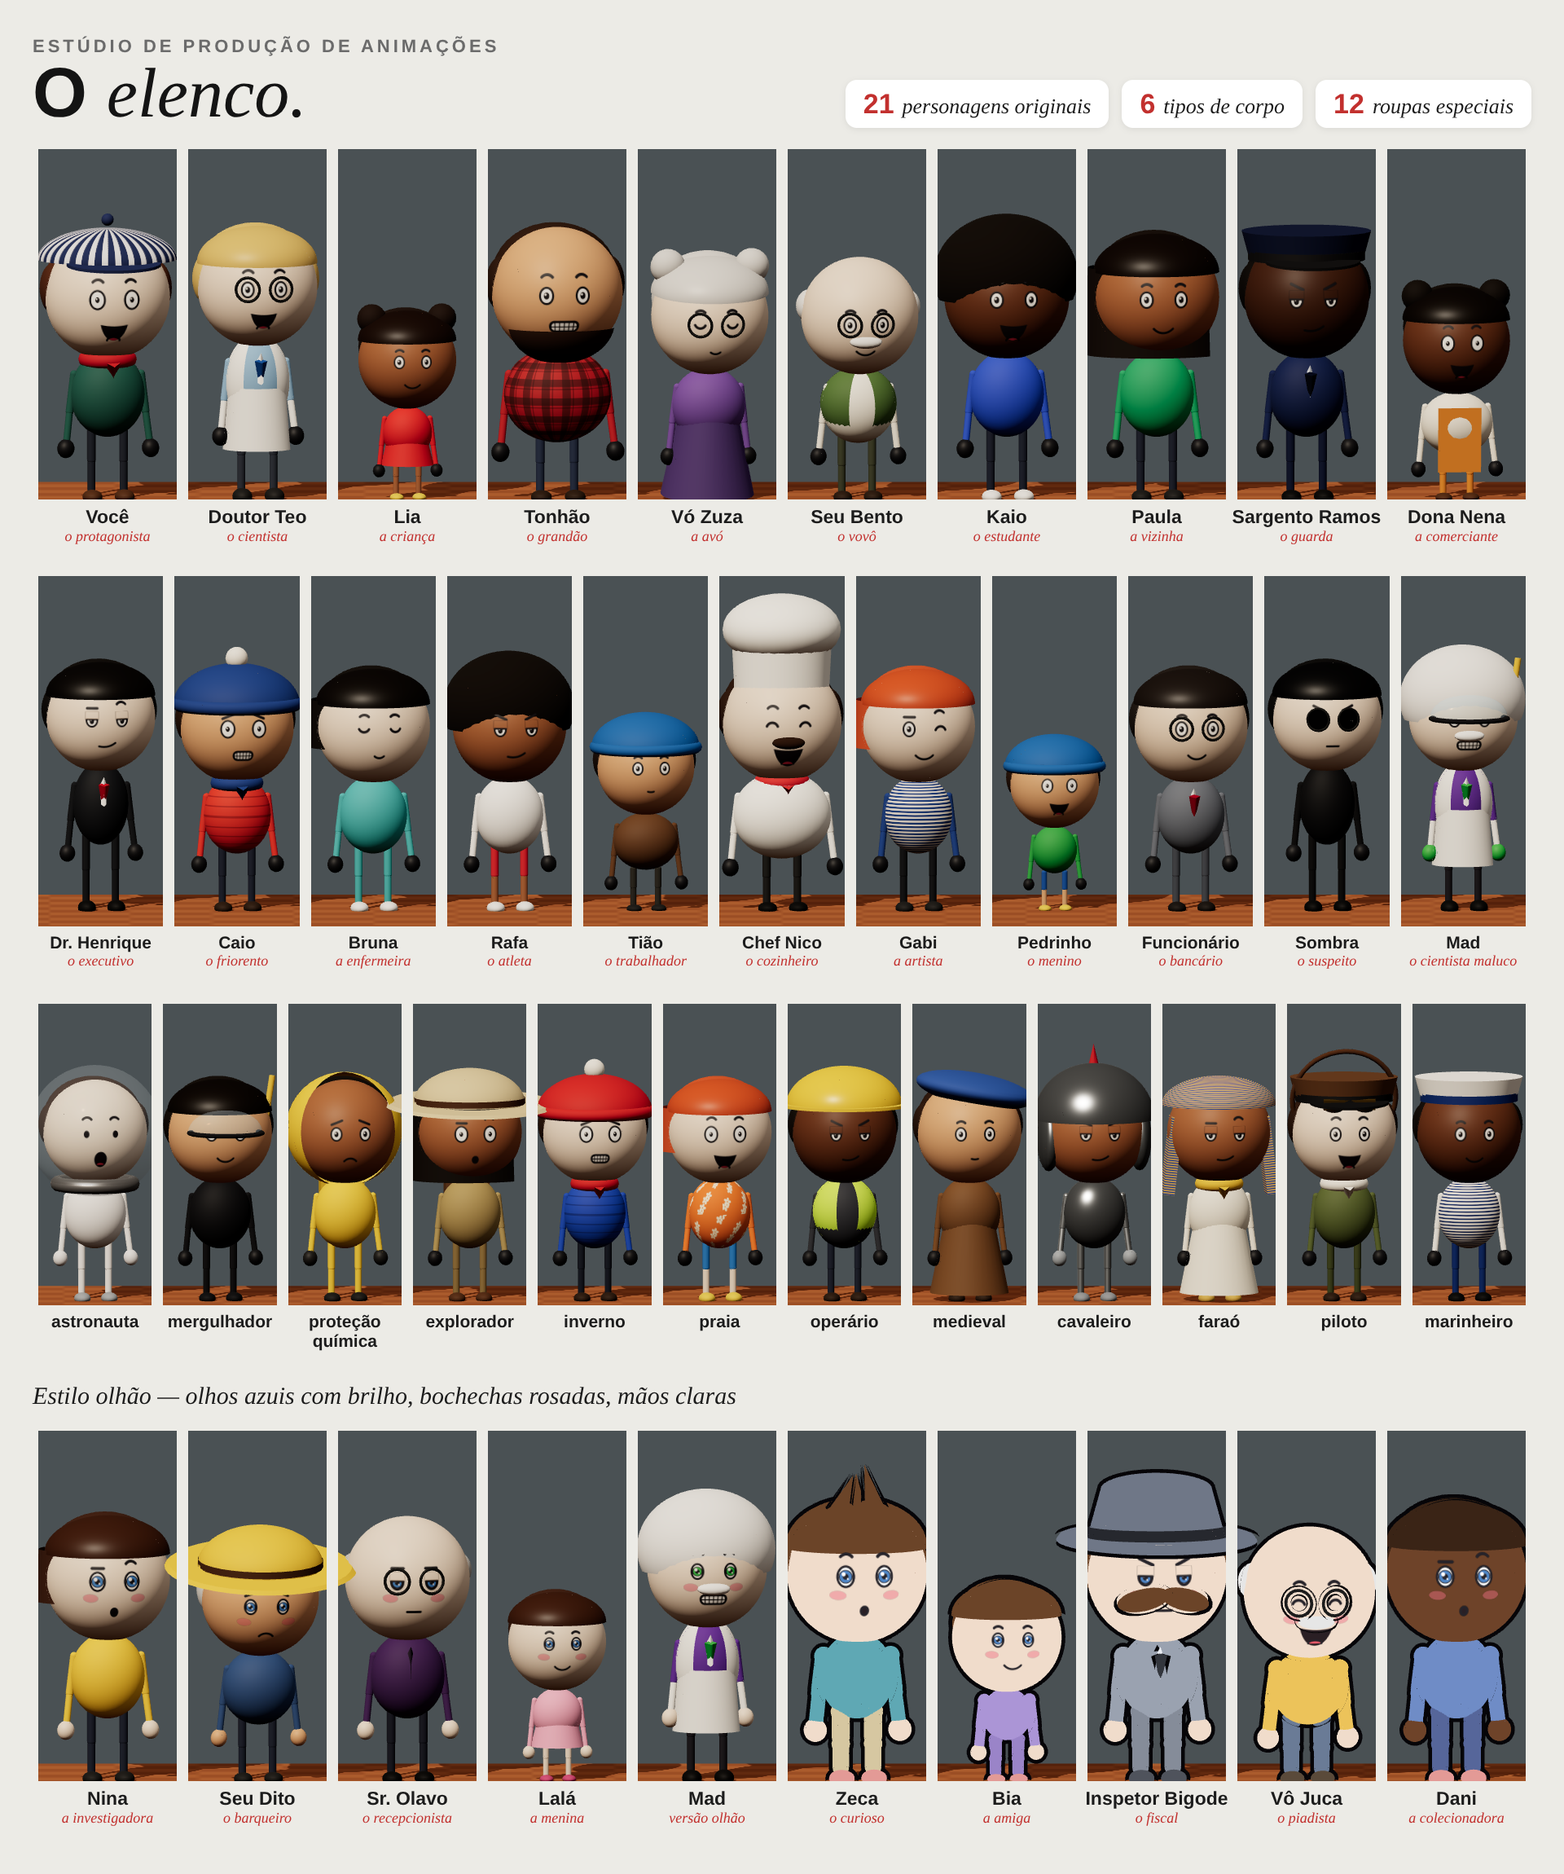
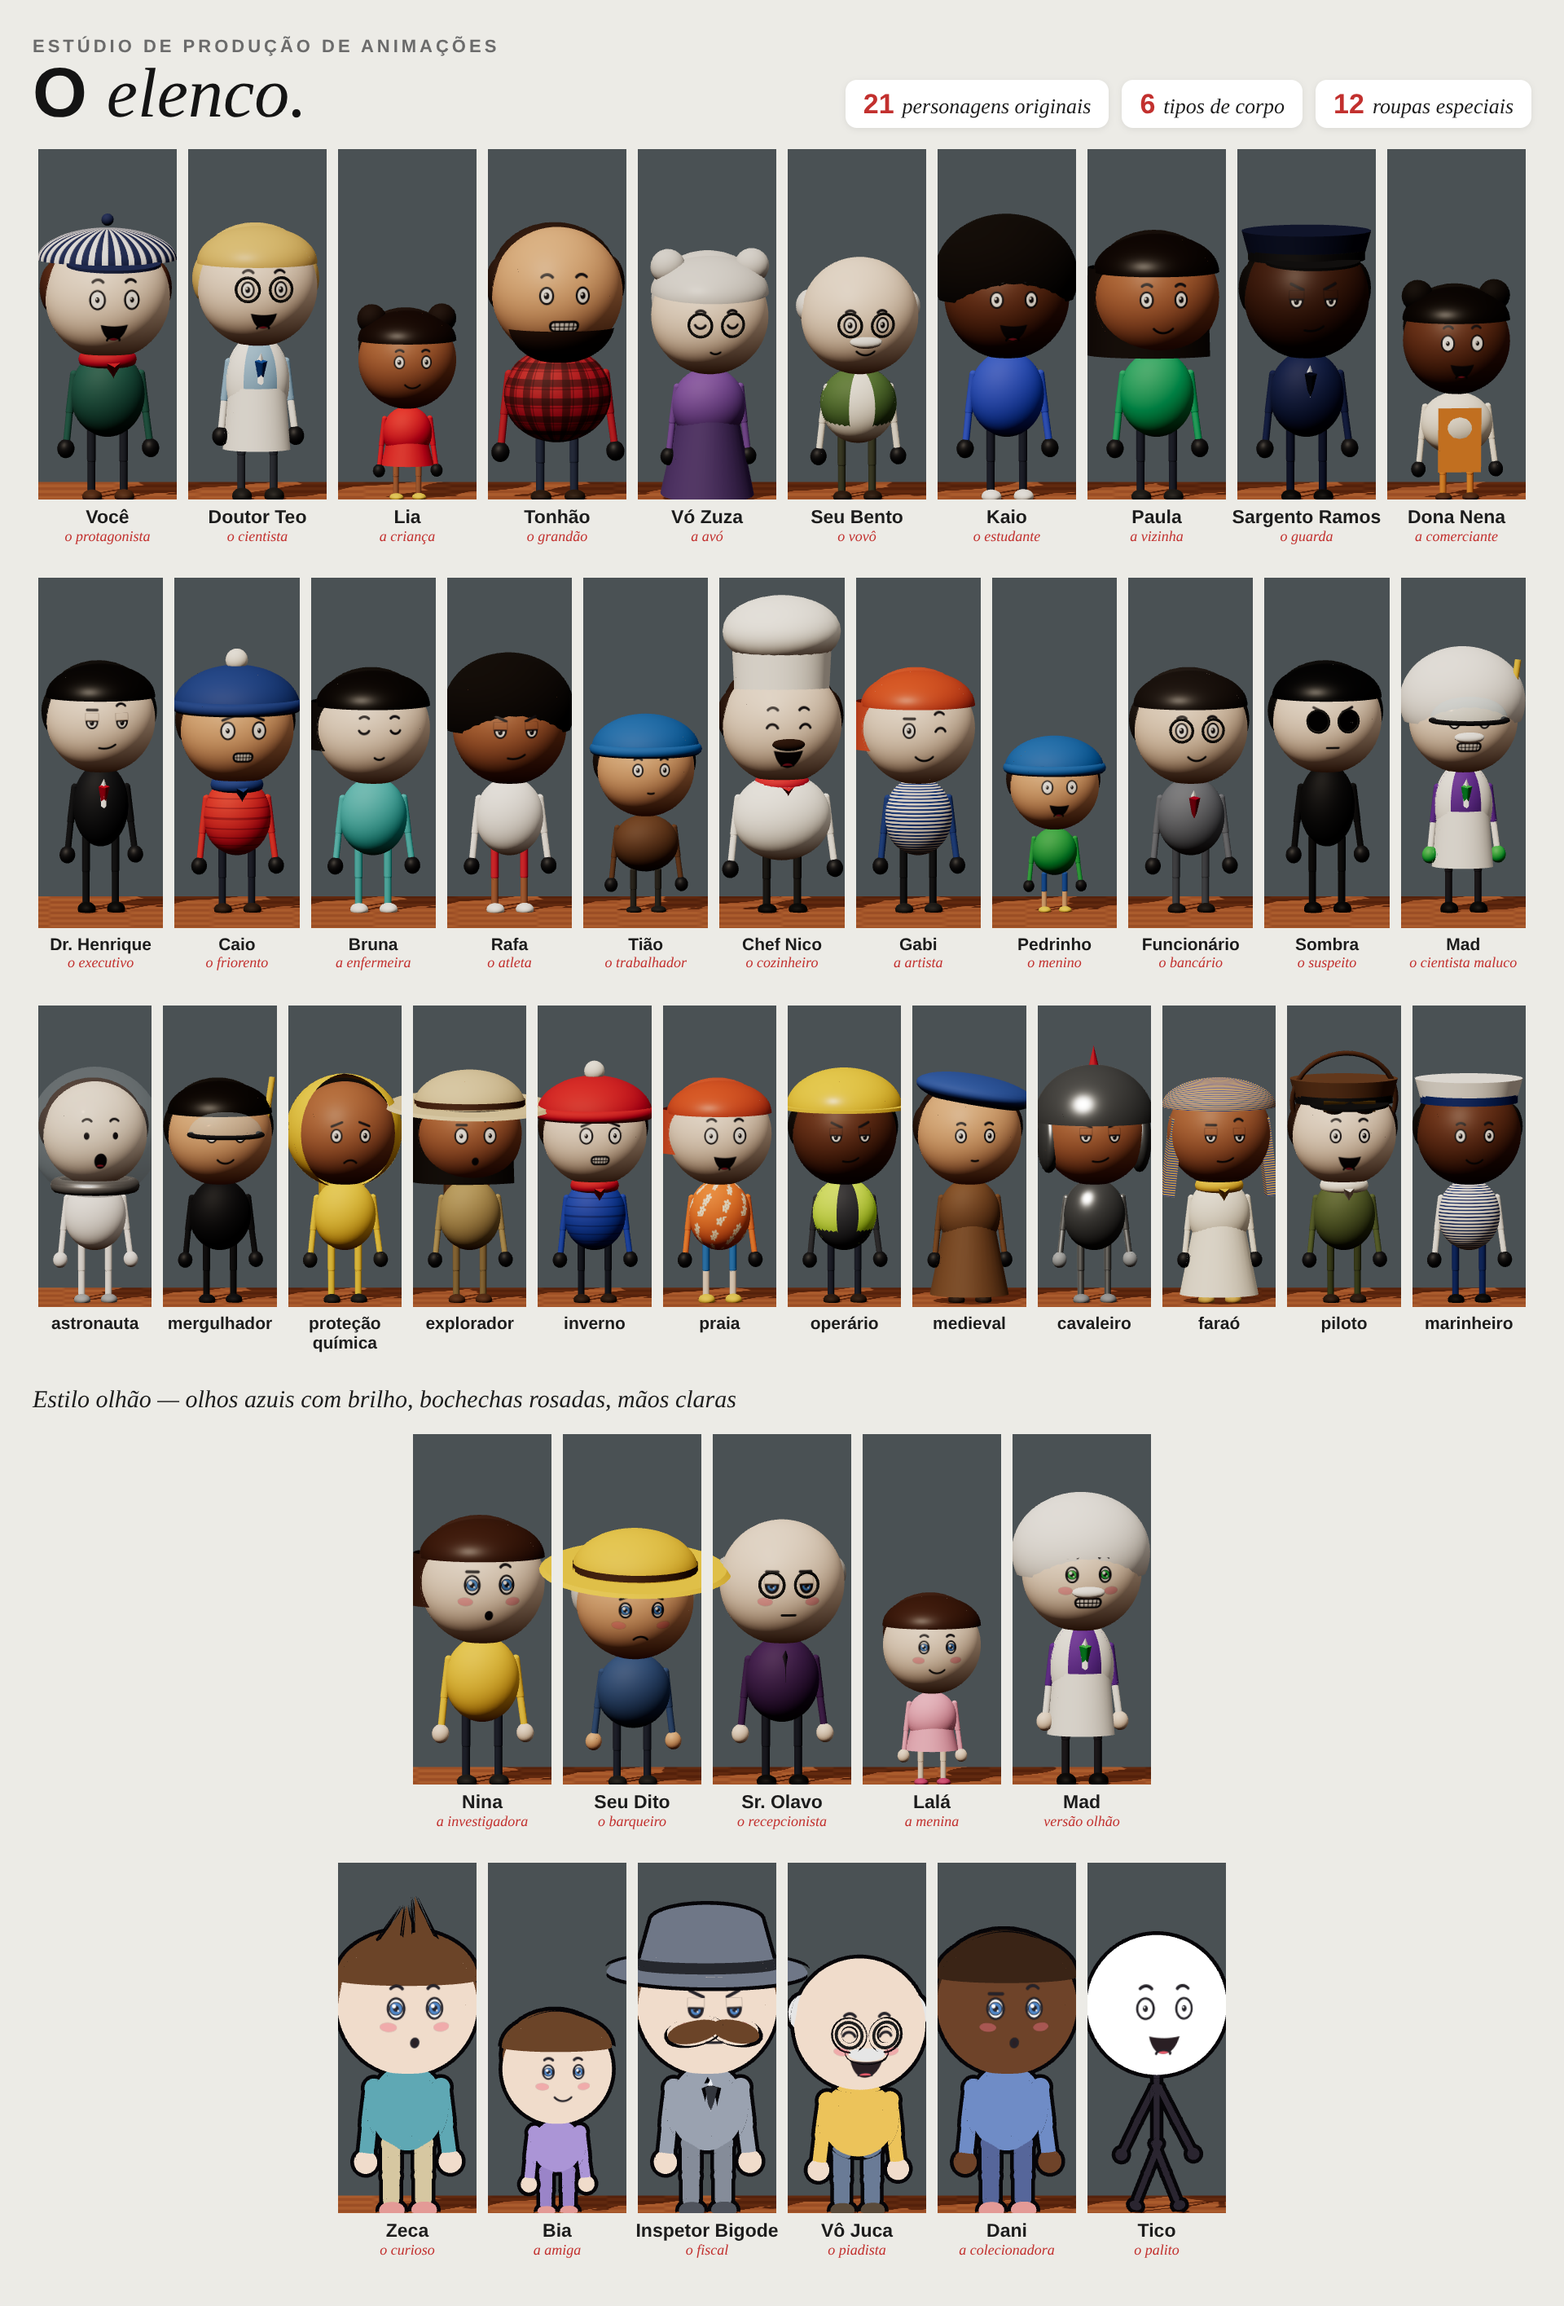
Adiciona personagem palito (Tico) e opção Look.palito
Claude-Session: https://claude.ai/code/session_01P7vGK5ehzYiDP7fUjAiZPz

diff --git a/estudio-animacoes-3d/src/Character.tsx b/estudio-animacoes-3d/src/Character.tsx
@@ -83,6 +83,7 @@ export type Look = {
   backpack?: string; // mochila / tanque
   iris?: string; // cor da íris (olhos grandes com brilho); sem isso, olho preto padrão
   cheeks?: boolean; // bochechas rosadas sempre
+  palito?: boolean; // personagem palito: corpo, braços e pernas de traço fino (use com traco)
   traco?: boolean; // visual 2D: cor chapada sem sombra, contorno grosso, membros de boneco articulado
 };
 
@@ -110,6 +111,9 @@ const HEAD_Y = 1.62;
 // ---------- Traço desenhado (Look.traco) ----------
 // Visual 2D: cor chapada pura (sem luz/sombra) + contorno escuro grosso.
 const TracoCtx = createContext(false);
+// Personagem palito: corpo, braços e pernas viram traços finos.
+const PalitoCtx = createContext(false);
+const PALITO_R = 0.024;
 const INK = '#2a2530';
 let inkMat: THREE.ShaderMaterial | null = null;
 // Contorno por "casca invertida": empurra a malha pela normal em espaço de câmera (espessura igual em tudo).
@@ -193,15 +197,16 @@ const FaceDecal = ({ face, skin, iris, cheeks }: { face: FaceState; skin: string
 // No estilo traço os membros ficam grossos, como tubos, com juntas redondas (boneco articulado).
 const GROSSO = 2.1;
 const Limb = ({ len, r, color, metal }: { len: number; r: number; color: string; metal?: boolean }) => {
-  const traco = useContext(TracoCtx);
-  const rr = traco ? r * GROSSO : r;
+  const palito = useContext(PalitoCtx);
+  const traco = useContext(TracoCtx) && !palito;
+  const rr = palito ? PALITO_R : traco ? r * GROSSO : r;
   return (
     <>
       <mesh position={[0, -len / 2, 0]} castShadow>
         <capsuleGeometry args={[rr, traco ? len - rr : len, 4, 12]} />
         <Mat color={color} metal={metal} />
       </mesh>
-      {traco && (
+      {(traco || palito) && (
         <mesh castShadow>
           <sphereGeometry args={[rr * 1.12, 16, 12]} />
           <Mat color={color} metal={metal} />
@@ -217,7 +222,7 @@ const Arm = ({ side, sz, sx, el, look, sh, hand }: { side: 1 | -1; sz: number; s
     <group position={[0, -0.3, 0]} rotation={[-el, 0, 0]}>
       <Limb len={0.27} r={0.028} color={look.coat ?? look.jacket} metal={look.metal} />
       <group position={[0, -0.3, 0]}>
-        <mesh castShadow scale={look.traco ? [1.35, 1.35, 1.2] : [1, 1.1, 0.9]}>
+        <mesh castShadow scale={look.palito ? [0.7, 0.7, 0.7] : look.traco ? [1.35, 1.35, 1.2] : [1, 1.1, 0.9]}>
           <sphereGeometry args={[0.07, 16, 12]} />
           <Mat color={look.gloves} roughness={0.5} />
         </mesh>
@@ -230,11 +235,11 @@ const Arm = ({ side, sz, sx, el, look, sh, hand }: { side: 1 | -1; sz: number; s
 const Leg = ({ side, swing, tap, look }: { side: 1 | -1; swing: number; tap: number; look: Look }) => {
   const knee = Math.max(0, -swing) * 0.9 + tap * 0.5;
   return (
-    <group position={[side * 0.13, 0.55, 0]} rotation={[-swing - tap * 0.3, 0, 0]}>
+    <group position={[side * (look.palito ? 0.02 : 0.13), 0.55, 0]} rotation={[-swing - tap * 0.3, 0, look.palito ? -side * 0.38 : 0]}>
       <Limb len={0.24} r={0.035} color={look.pants} metal={look.metal} />
       <group position={[0, -0.26, 0]} rotation={[knee, 0, 0]}>
         <Limb len={0.22} r={0.032} color={look.shorts ? look.skin : look.pants} metal={look.metal} />
-        <mesh position={[0, -0.27, 0.07]} scale={look.traco ? [1.3, 0.85, 1.7] : [1, 0.7, 1.6]} castShadow>
+        <mesh position={[0, -0.27, 0.05]} scale={look.palito ? [0.6, 0.45, 1.3] : look.traco ? [1.3, 0.85, 1.7] : [1, 0.7, 1.6]} castShadow>
           <sphereGeometry args={[0.08, 16, 12]} />
           <Mat color={look.shoes} roughness={0.6} />
         </mesh>
@@ -645,11 +650,19 @@ export const Character = ({
       </group>
       <group position={[0, 0.55 + dy, 0]} scale={[2 - sq, sq, 2 - sq]}>
         <group rotation={[p.lean + b.lean, p.twist, p.side]} position={[0, -0.55, 0]}>
-          {/* Tronco arredondado */}
-          <mesh position={[0, 0.84, 0]} scale={b.torso} castShadow>
-            <sphereGeometry args={[0.3, 32, 24]} />
-            <Mat color={torsoMap ? '#ffffff' : look.jacket} map={torsoMap} metal={look.metal} />
-          </mesh>
+          {look.palito ? (
+            /* Palito: um traço do quadril até o pescoço */
+            <mesh position={[0, 0.86, 0]} castShadow>
+              <capsuleGeometry args={[PALITO_R, 0.62, 4, 12]} />
+              <Mat color={look.jacket} />
+            </mesh>
+          ) : (
+            /* Tronco arredondado */
+            <mesh position={[0, 0.84, 0]} scale={b.torso} castShadow>
+              <sphereGeometry args={[0.3, 32, 24]} />
+              <Mat color={torsoMap ? '#ffffff' : look.jacket} map={torsoMap} metal={look.metal} />
+            </mesh>
+          )}
           {look.backpack && (
             <mesh position={[0, 0.88, -0.3 * b.torso[2]]} castShadow>
               <boxGeometry args={[0.42, 0.5, 0.2]} />
@@ -707,8 +720,8 @@ export const Character = ({
                 <Mat color="#efeee8" roughness={0.9} />
               </mesh>
             ))}
-          <Arm side={1} sz={p.lsz} sx={p.lsx} el={p.lel} look={look} sh={b.sh} hand={left} />
-          <Arm side={-1} sz={p.rsz} sx={p.rsx} el={p.rel} look={look} sh={b.sh} hand={right} />
+          <Arm side={1} sz={p.lsz + (look.palito ? 0.35 : 0)} sx={p.lsx} el={p.lel} look={look} sh={look.palito ? 0.02 : b.sh} hand={left} />
+          <Arm side={-1} sz={p.rsz + (look.palito ? 0.35 : 0)} sx={p.rsx} el={p.rel} look={look} sh={look.palito ? 0.02 : b.sh} hand={right} />
           {/* Cabeça */}
           <group position={[0, 1.18, 0]} rotation={new THREE.Euler(p.hp, p.hy, p.hr, 'YXZ')}>
             <group position={[0, (HEAD_Y - 1.18) * b.head * (look.traco ? 1.1 : 1), 0]} scale={b.head * (look.traco ? 1.12 : 1)}>
@@ -727,10 +740,11 @@ export const Character = ({
       </group>
     </group>
   );
-  if (!look.traco) return corpo;
+  const comPalito = look.palito ? <PalitoCtx.Provider value>{corpo}</PalitoCtx.Provider> : corpo;
+  if (!look.traco) return comPalito;
   return (
     <TracoCtx.Provider value>
-      <Contorno>{corpo}</Contorno>
+      <Contorno>{comPalito}</Contorno>
     </TracoCtx.Provider>
   );
 };

diff --git a/estudio-animacoes-3d/src/Elenco.tsx b/estudio-animacoes-3d/src/Elenco.tsx
@@ -101,9 +101,14 @@ export const Elenco = () => {
       <Cartoes membros={todos.slice(10)} w={W} h={430} />
       <Cartoes membros={roupas} w={W} h={370} />
       <div style={{ fontFamily: 'Georgia, serif', fontStyle: 'italic', fontSize: 30, color: '#1c1c1c' }}>Estilo olhão — olhos azuis com brilho, bochechas rosadas, mãos claras</div>
-      <div style={{ display: 'flex', justifyContent: 'center' }}>
-        <Cartoes membros={Object.values(OLHAO) as Membro[]} w={(W / 10) * Object.keys(OLHAO).length} h={430} />
-      </div>
+      {[0, 5].map((i) => {
+        const fila = (Object.values(OLHAO) as Membro[]).slice(i, i === 0 ? 5 : undefined);
+        return (
+          <div key={i} style={{ display: 'flex', justifyContent: 'center' }}>
+            <Cartoes membros={fila} w={(W / 10) * fila.length} h={430} />
+          </div>
+        );
+      })}
     </AbsoluteFill>
   );
 };

diff --git a/estudio-animacoes-3d/src/personagens.ts b/estudio-animacoes-3d/src/personagens.ts
@@ -141,6 +141,11 @@ export const OLHAO = {
     nome: 'Dani', papel: 'a colecionadora', rosto: 'curious',
     look: { skin: PELE.escura, jacket: '#6f8cc6', pants: '#56669a', pattern: 'liso', shoes: '#e39a96', gloves: PELE.escura, hair: '#3a2416', hairStyle: 'rabo', iris: OLHO_AZUL, cheeks: true, traco: true },
   },
+  // Personagem palito: cabeça redonda e corpo de traços finos
+  palito: {
+    nome: 'Tico', papel: 'o palito', rosto: 'bigSmile',
+    look: { skin: '#ffffff', jacket: '#2a2530', pants: '#2a2530', shoes: '#2a2530', gloves: '#2a2530', hair: '#2a2530', hairStyle: 'nenhum', palito: true, traco: true },
+  },
 } satisfies Record<string, Membro>;
 
 export const ROUPAS = {

diff --git a/estudio-animacoes-3d/src/Root.tsx b/estudio-animacoes-3d/src/Root.tsx
@@ -16,6 +16,6 @@ export const Root = () => (
       defaultProps={{ legendas: true, voz: VOZ.length > 0, musica: false }}
     />
     {/* Folha com todo o elenco disponível (node tools/elenco.mjs) */}
-    <Composition id="Elenco" component={Elenco} durationInFrames={1} fps={FPS} width={1920} height={2300} />
+    <Composition id="Elenco" component={Elenco} durationInFrames={1} fps={FPS} width={1920} height={2830} />
   </>
 );
